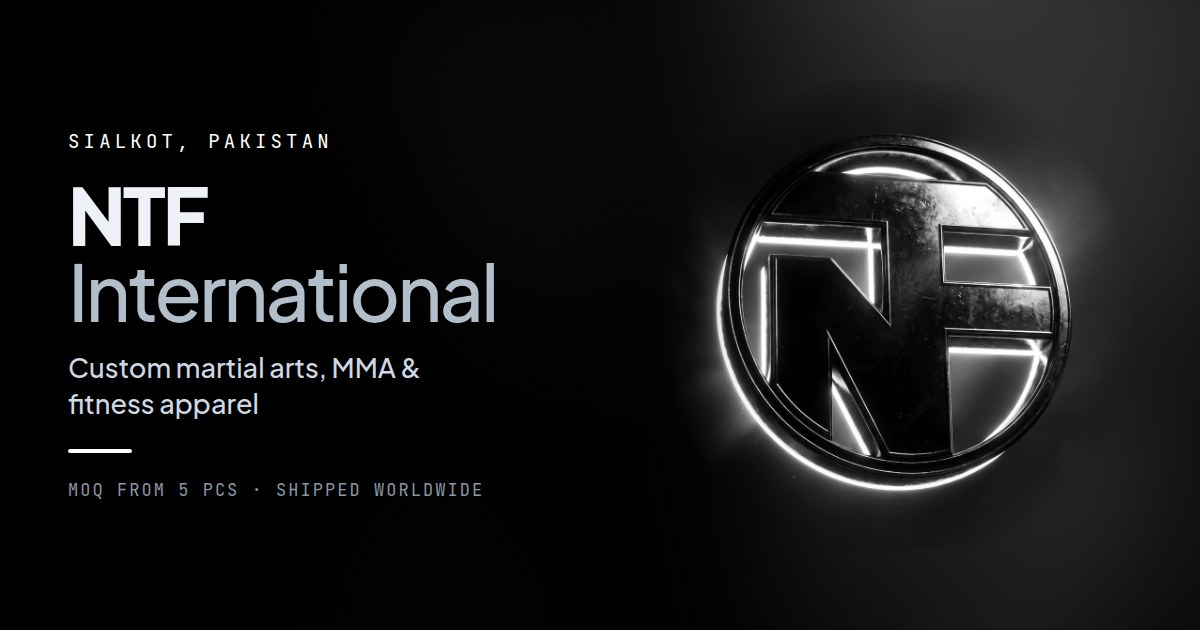
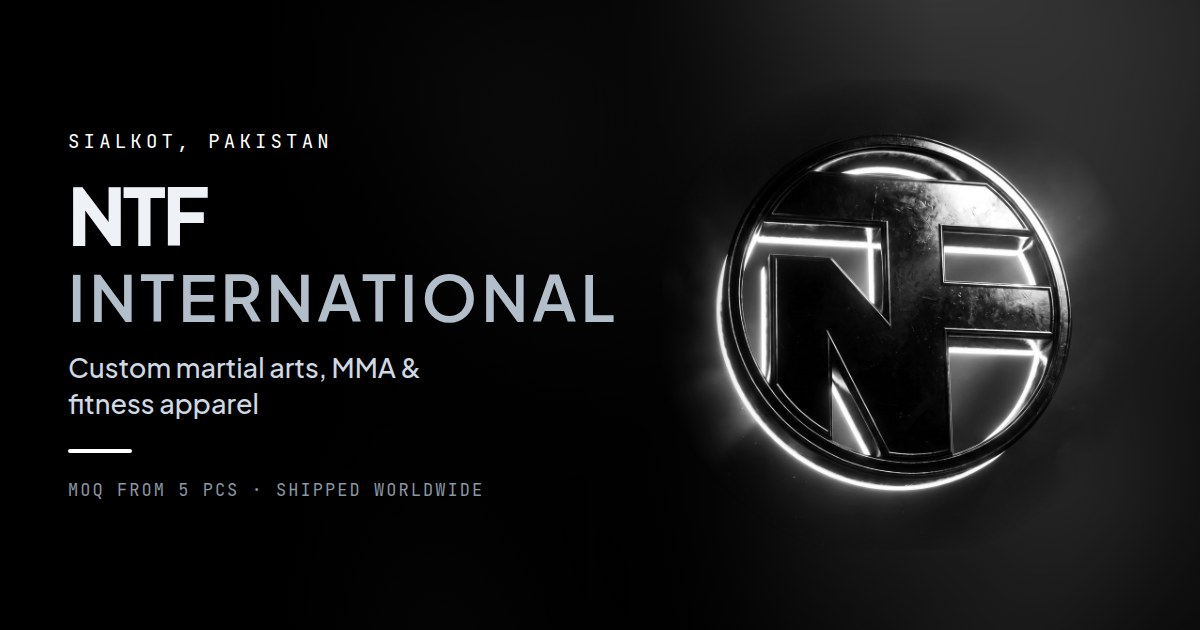
Drop the product count from collection tiles, set INTERNATIONAL in caps
Collection tiles showed "Uniforms & Belts - 5 products"; the count is gone
and the category label stays. Both templates that render the tile, on the
home page and the collections index, were updated.

The wordmark descriptor is now uppercase, sized down and tracked out so
INTERNATIONAL sits level with NTF rather than overpowering it. Mark and
wordmark stay centre-aligned to the pixel in both themes, and the share
card was re-rendered to match.

Claude-Session: https://claude.ai/code/session_01XYNowMFgHwa3H3AFdUvJZe

Changed region(s): [[0.0617, 0.4222, 0.5242, 0.5127]]

diff --git a/collections.html b/collections.html
@@ -27,7 +27,7 @@
 <link rel="preload" as="font" type="font/woff2" href="assets/fonts/plus-jakarta-sans-800-latin.woff2" crossorigin>
 <link rel="preload" as="font" type="font/woff2" href="assets/fonts/inter-400-latin.woff2" crossorigin>
 <link rel="stylesheet" href="assets/css/fonts.css?v=1d04b4e0">
-<link rel="stylesheet" href="assets/css/style.css?v=2b110de8">
+<link rel="stylesheet" href="assets/css/style.css?v=dbd391e2">
 <script>(function(){var d=document.documentElement;try{var t=localStorage.getItem('ntf-theme-v2')||'dark';d.setAttribute('data-theme',t);}catch(e){}})();</script>
 </head>
 <body>
@@ -87,19 +87,19 @@
 </div></section>
 <section><div class="wrap"><div class="grid g3"><a class="tile reveal tile-wide" href="collections/martial-arts.html">
 <img src="assets/img/photos/ma-hero.jpg" alt="Martial Arts by NTF" loading="lazy" decoding="async" class="" >
-<div class="tile-body"><p class="kicker">Uniforms & Belts &middot; 5 products</p><h3>Martial Arts</h3>
+<div class="tile-body"><p class="kicker">Uniforms & Belts</p><h3>Martial Arts</h3>
 <p>Competition-grade gis, dobok and belts cut to federation weights and finished with your branding.</p><span class="arrow-link">View collection <span><svg width="15" height="15" viewBox="0 0 24 24" fill="none" stroke="currentColor" stroke-width="2.2" stroke-linecap="round" stroke-linejoin="round"><path d="M5 12h14M13 6l6 6-6 6"/></svg></span></span></div></a><a class="tile reveal" href="collections/mma-wear.html">
 <img src="assets/img/photos/mma-hero.jpg" alt="MMA Wear by NTF" loading="lazy" decoding="async" class="" >
-<div class="tile-body"><p class="kicker">Fight Kit &middot; 5 products</p><h3>MMA Wear</h3>
+<div class="tile-body"><p class="kicker">Fight Kit</p><h3>MMA Wear</h3>
 <p>Fight shorts, rash guards and compression built to move at full extension and survive the cage floor.</p><span class="arrow-link">View collection <span><svg width="15" height="15" viewBox="0 0 24 24" fill="none" stroke="currentColor" stroke-width="2.2" stroke-linecap="round" stroke-linejoin="round"><path d="M5 12h14M13 6l6 6-6 6"/></svg></span></span></div></a><a class="tile reveal" href="collections/mma-grappling-dummy.html">
 <img src="assets/img/photos/dummy-hero.jpg" alt="MMA Grappling Dummy by NTF" loading="lazy" decoding="async" class="" >
-<div class="tile-body"><p class="kicker">Training Gear &middot; 5 products</p><h3>MMA Grappling Dummy</h3>
+<div class="tile-body"><p class="kicker">Training Gear</p><h3>MMA Grappling Dummy</h3>
 <p>Unfilled and filled throwing dummies in micro-fibre leather and heavy canvas, stitched to take daily slams.</p><span class="arrow-link">View collection <span><svg width="15" height="15" viewBox="0 0 24 24" fill="none" stroke="currentColor" stroke-width="2.2" stroke-linecap="round" stroke-linejoin="round"><path d="M5 12h14M13 6l6 6-6 6"/></svg></span></span></div></a><a class="tile reveal tile-wide" href="collections/fitness-wear.html">
 <img src="assets/img/photos/fit-hero.jpg" alt="Fitness Wear by NTF" loading="lazy" decoding="async" class="" >
-<div class="tile-body"><p class="kicker">Gym Apparel &middot; 5 products</p><h3>Fitness Wear</h3>
+<div class="tile-body"><p class="kicker">Gym Apparel</p><h3>Fitness Wear</h3>
 <p>Seamless, sculpted and performance-knit gym apparel for private-label ranges and studio kit.</p><span class="arrow-link">View collection <span><svg width="15" height="15" viewBox="0 0 24 24" fill="none" stroke="currentColor" stroke-width="2.2" stroke-linecap="round" stroke-linejoin="round"><path d="M5 12h14M13 6l6 6-6 6"/></svg></span></span></div></a><a class="tile reveal tile-full" href="collections/gym-wrist-straps.html">
 <img src="assets/img/photos/strap-hero.jpg" alt="GYM Wrist Straps by NTF" loading="lazy" decoding="async" class="" >
-<div class="tile-body"><p class="kicker">Lifting Support &middot; 5 products</p><h3>GYM Wrist Straps</h3>
+<div class="tile-body"><p class="kicker">Lifting Support</p><h3>GYM Wrist Straps</h3>
 <p>Lifting straps, wrist wraps and figure-8s in cotton, neoprene and full-grain leather, branded your way.</p><span class="arrow-link">View collection <span><svg width="15" height="15" viewBox="0 0 24 24" fill="none" stroke="currentColor" stroke-width="2.2" stroke-linecap="round" stroke-linejoin="round"><path d="M5 12h14M13 6l6 6-6 6"/></svg></span></span></div></a></div></div></section>
 <section><div class="wrap"><div class="cta reveal">
 <p class="mono" style="color:inherit;opacity:.7">[ Next step ]</p>

diff --git a/index.html b/index.html
@@ -27,7 +27,7 @@
 <link rel="preload" as="font" type="font/woff2" href="assets/fonts/plus-jakarta-sans-800-latin.woff2" crossorigin>
 <link rel="preload" as="font" type="font/woff2" href="assets/fonts/inter-400-latin.woff2" crossorigin>
 <link rel="stylesheet" href="assets/css/fonts.css?v=1d04b4e0">
-<link rel="stylesheet" href="assets/css/style.css?v=2b110de8">
+<link rel="stylesheet" href="assets/css/style.css?v=dbd391e2">
 <script>(function(){var d=document.documentElement;try{var t=localStorage.getItem('ntf-theme-v2')||'dark';d.setAttribute('data-theme',t);}catch(e){}})();</script>
 </head>
 <body>
@@ -121,19 +121,19 @@
 </div>
 <div class="grid g3"><a class="tile reveal tile-wide" href="collections/martial-arts.html">
 <img src="assets/img/photos/ma-hero.jpg" alt="Martial Arts manufacturing by NTF" loading="lazy" decoding="async" class="" >
-<div class="tile-body"><p class="kicker">Uniforms & Belts &middot; 5 products</p><h3>Martial Arts</h3>
+<div class="tile-body"><p class="kicker">Uniforms & Belts</p><h3>Martial Arts</h3>
 <p>Competition-grade gis, dobok and belts cut to federation weights and finished with your branding.</p><span class="arrow-link">View collection <span><svg width="15" height="15" viewBox="0 0 24 24" fill="none" stroke="currentColor" stroke-width="2.2" stroke-linecap="round" stroke-linejoin="round"><path d="M5 12h14M13 6l6 6-6 6"/></svg></span></span></div></a><a class="tile reveal" href="collections/mma-wear.html">
 <img src="assets/img/photos/mma-hero.jpg" alt="MMA Wear manufacturing by NTF" loading="lazy" decoding="async" class="" >
-<div class="tile-body"><p class="kicker">Fight Kit &middot; 5 products</p><h3>MMA Wear</h3>
+<div class="tile-body"><p class="kicker">Fight Kit</p><h3>MMA Wear</h3>
 <p>Fight shorts, rash guards and compression built to move at full extension and survive the cage floor.</p><span class="arrow-link">View collection <span><svg width="15" height="15" viewBox="0 0 24 24" fill="none" stroke="currentColor" stroke-width="2.2" stroke-linecap="round" stroke-linejoin="round"><path d="M5 12h14M13 6l6 6-6 6"/></svg></span></span></div></a><a class="tile reveal" href="collections/mma-grappling-dummy.html">
 <img src="assets/img/photos/dummy-hero.jpg" alt="MMA Grappling Dummy manufacturing by NTF" loading="lazy" decoding="async" class="" >
-<div class="tile-body"><p class="kicker">Training Gear &middot; 5 products</p><h3>MMA Grappling Dummy</h3>
+<div class="tile-body"><p class="kicker">Training Gear</p><h3>MMA Grappling Dummy</h3>
 <p>Unfilled and filled throwing dummies in micro-fibre leather and heavy canvas, stitched to take daily slams.</p><span class="arrow-link">View collection <span><svg width="15" height="15" viewBox="0 0 24 24" fill="none" stroke="currentColor" stroke-width="2.2" stroke-linecap="round" stroke-linejoin="round"><path d="M5 12h14M13 6l6 6-6 6"/></svg></span></span></div></a><a class="tile reveal tile-wide" href="collections/fitness-wear.html">
 <img src="assets/img/photos/fit-hero.jpg" alt="Fitness Wear manufacturing by NTF" loading="lazy" decoding="async" class="" >
-<div class="tile-body"><p class="kicker">Gym Apparel &middot; 5 products</p><h3>Fitness Wear</h3>
+<div class="tile-body"><p class="kicker">Gym Apparel</p><h3>Fitness Wear</h3>
 <p>Seamless, sculpted and performance-knit gym apparel for private-label ranges and studio kit.</p><span class="arrow-link">View collection <span><svg width="15" height="15" viewBox="0 0 24 24" fill="none" stroke="currentColor" stroke-width="2.2" stroke-linecap="round" stroke-linejoin="round"><path d="M5 12h14M13 6l6 6-6 6"/></svg></span></span></div></a><a class="tile reveal tile-full" href="collections/gym-wrist-straps.html">
 <img src="assets/img/photos/strap-hero.jpg" alt="GYM Wrist Straps manufacturing by NTF" loading="lazy" decoding="async" class="" >
-<div class="tile-body"><p class="kicker">Lifting Support &middot; 5 products</p><h3>GYM Wrist Straps</h3>
+<div class="tile-body"><p class="kicker">Lifting Support</p><h3>GYM Wrist Straps</h3>
 <p>Lifting straps, wrist wraps and figure-8s in cotton, neoprene and full-grain leather, branded your way.</p><span class="arrow-link">View collection <span><svg width="15" height="15" viewBox="0 0 24 24" fill="none" stroke="currentColor" stroke-width="2.2" stroke-linecap="round" stroke-linejoin="round"><path d="M5 12h14M13 6l6 6-6 6"/></svg></span></span></div></a></div>
 </div></section>
 

diff --git a/assets/css/style.css b/assets/css/style.css
@@ -153,7 +153,9 @@ header.site.scrolled{border-color:var(--line);box-shadow:0 4px 24px -18px rgba(1
 .brand-type{display:flex;align-items:baseline;gap:.32em;font-family:var(--display);
   font-size:calc(var(--lm)*.5);line-height:1;letter-spacing:-.03em;color:var(--text);white-space:nowrap}
 .brand-type b{font-weight:800}
-.brand-type .sub{font-weight:500;color:var(--text-2);transition:color .3s}
+/* set in caps, so it is sized down and tracked out to sit level with NTF */
+.brand-type .sub{font-weight:600;font-size:.8em;letter-spacing:.07em;text-transform:uppercase;
+  color:var(--text-2);transition:color .3s}
 .brand:hover .brand-type .sub{color:var(--text)}
 @media(max-width:560px){.brand{--lm:34px}.brand-type .sub{display:none}}
 

diff --git a/tools/og-card.html b/tools/og-card.html
@@ -14,7 +14,7 @@
   .kicker{font-family:"JetBrains Mono",monospace;font-size:19px;letter-spacing:.22em;
           text-transform:uppercase;color:#ffffff;margin-bottom:22px}
   h1{font-size:78px;font-weight:800;letter-spacing:-.04em;line-height:.98}
-  h1 .sub{font-weight:500;color:#b3becb}
+  h1 .sub{font-weight:600;font-size:.82em;letter-spacing:.06em;text-transform:uppercase;color:#b3becb}
   p{margin-top:20px;font-size:27px;line-height:1.35;color:#cfd8e3;max-width:20ch}
   .rule{width:64px;height:4px;background:#ffffff;border-radius:4px;margin-top:28px}
   .meta{margin-top:26px;font-family:"JetBrains Mono",monospace;font-size:17px;letter-spacing:.12em;

diff --git a/collections/fitness-wear.html b/collections/fitness-wear.html
@@ -27,7 +27,7 @@
 <link rel="preload" as="font" type="font/woff2" href="../assets/fonts/plus-jakarta-sans-800-latin.woff2" crossorigin>
 <link rel="preload" as="font" type="font/woff2" href="../assets/fonts/inter-400-latin.woff2" crossorigin>
 <link rel="stylesheet" href="../assets/css/fonts.css?v=1d04b4e0">
-<link rel="stylesheet" href="../assets/css/style.css?v=2b110de8">
+<link rel="stylesheet" href="../assets/css/style.css?v=dbd391e2">
 <script>(function(){var d=document.documentElement;try{var t=localStorage.getItem('ntf-theme-v2')||'dark';d.setAttribute('data-theme',t);}catch(e){}})();</script>
 </head>
 <body>

diff --git a/collections/gym-wrist-straps.html b/collections/gym-wrist-straps.html
@@ -27,7 +27,7 @@
 <link rel="preload" as="font" type="font/woff2" href="../assets/fonts/plus-jakarta-sans-800-latin.woff2" crossorigin>
 <link rel="preload" as="font" type="font/woff2" href="../assets/fonts/inter-400-latin.woff2" crossorigin>
 <link rel="stylesheet" href="../assets/css/fonts.css?v=1d04b4e0">
-<link rel="stylesheet" href="../assets/css/style.css?v=2b110de8">
+<link rel="stylesheet" href="../assets/css/style.css?v=dbd391e2">
 <script>(function(){var d=document.documentElement;try{var t=localStorage.getItem('ntf-theme-v2')||'dark';d.setAttribute('data-theme',t);}catch(e){}})();</script>
 </head>
 <body>

diff --git a/collections/martial-arts.html b/collections/martial-arts.html
@@ -27,7 +27,7 @@
 <link rel="preload" as="font" type="font/woff2" href="../assets/fonts/plus-jakarta-sans-800-latin.woff2" crossorigin>
 <link rel="preload" as="font" type="font/woff2" href="../assets/fonts/inter-400-latin.woff2" crossorigin>
 <link rel="stylesheet" href="../assets/css/fonts.css?v=1d04b4e0">
-<link rel="stylesheet" href="../assets/css/style.css?v=2b110de8">
+<link rel="stylesheet" href="../assets/css/style.css?v=dbd391e2">
 <script>(function(){var d=document.documentElement;try{var t=localStorage.getItem('ntf-theme-v2')||'dark';d.setAttribute('data-theme',t);}catch(e){}})();</script>
 </head>
 <body>

diff --git a/collections/mma-grappling-dummy.html b/collections/mma-grappling-dummy.html
@@ -27,7 +27,7 @@
 <link rel="preload" as="font" type="font/woff2" href="../assets/fonts/plus-jakarta-sans-800-latin.woff2" crossorigin>
 <link rel="preload" as="font" type="font/woff2" href="../assets/fonts/inter-400-latin.woff2" crossorigin>
 <link rel="stylesheet" href="../assets/css/fonts.css?v=1d04b4e0">
-<link rel="stylesheet" href="../assets/css/style.css?v=2b110de8">
+<link rel="stylesheet" href="../assets/css/style.css?v=dbd391e2">
 <script>(function(){var d=document.documentElement;try{var t=localStorage.getItem('ntf-theme-v2')||'dark';d.setAttribute('data-theme',t);}catch(e){}})();</script>
 </head>
 <body>

diff --git a/collections/mma-wear.html b/collections/mma-wear.html
@@ -27,7 +27,7 @@
 <link rel="preload" as="font" type="font/woff2" href="../assets/fonts/plus-jakarta-sans-800-latin.woff2" crossorigin>
 <link rel="preload" as="font" type="font/woff2" href="../assets/fonts/inter-400-latin.woff2" crossorigin>
 <link rel="stylesheet" href="../assets/css/fonts.css?v=1d04b4e0">
-<link rel="stylesheet" href="../assets/css/style.css?v=2b110de8">
+<link rel="stylesheet" href="../assets/css/style.css?v=dbd391e2">
 <script>(function(){var d=document.documentElement;try{var t=localStorage.getItem('ntf-theme-v2')||'dark';d.setAttribute('data-theme',t);}catch(e){}})();</script>
 </head>
 <body>

diff --git a/products/embroidered-rank-belt.html b/products/embroidered-rank-belt.html
@@ -27,7 +27,7 @@
 <link rel="preload" as="font" type="font/woff2" href="../assets/fonts/plus-jakarta-sans-800-latin.woff2" crossorigin>
 <link rel="preload" as="font" type="font/woff2" href="../assets/fonts/inter-400-latin.woff2" crossorigin>
 <link rel="stylesheet" href="../assets/css/fonts.css?v=1d04b4e0">
-<link rel="stylesheet" href="../assets/css/style.css?v=2b110de8">
+<link rel="stylesheet" href="../assets/css/style.css?v=dbd391e2">
 <script>(function(){var d=document.documentElement;try{var t=localStorage.getItem('ntf-theme-v2')||'dark';d.setAttribute('data-theme',t);}catch(e){}})();</script>
 </head>
 <body>

diff --git a/products/figure-8-deadlift-straps.html b/products/figure-8-deadlift-straps.html
@@ -27,7 +27,7 @@
 <link rel="preload" as="font" type="font/woff2" href="../assets/fonts/plus-jakarta-sans-800-latin.woff2" crossorigin>
 <link rel="preload" as="font" type="font/woff2" href="../assets/fonts/inter-400-latin.woff2" crossorigin>
 <link rel="stylesheet" href="../assets/css/fonts.css?v=1d04b4e0">
-<link rel="stylesheet" href="../assets/css/style.css?v=2b110de8">
+<link rel="stylesheet" href="../assets/css/style.css?v=dbd391e2">
 <script>(function(){var d=document.documentElement;try{var t=localStorage.getItem('ntf-theme-v2')||'dark';d.setAttribute('data-theme',t);}catch(e){}})();</script>
 </head>
 <body>

diff --git a/products/grappling-spats.html b/products/grappling-spats.html
@@ -27,7 +27,7 @@
 <link rel="preload" as="font" type="font/woff2" href="../assets/fonts/plus-jakarta-sans-800-latin.woff2" crossorigin>
 <link rel="preload" as="font" type="font/woff2" href="../assets/fonts/inter-400-latin.woff2" crossorigin>
 <link rel="stylesheet" href="../assets/css/fonts.css?v=1d04b4e0">
-<link rel="stylesheet" href="../assets/css/style.css?v=2b110de8">
+<link rel="stylesheet" href="../assets/css/style.css?v=dbd391e2">
 <script>(function(){var d=document.documentElement;try{var t=localStorage.getItem('ntf-theme-v2')||'dark';d.setAttribute('data-theme',t);}catch(e){}})();</script>
 </head>
 <body>
